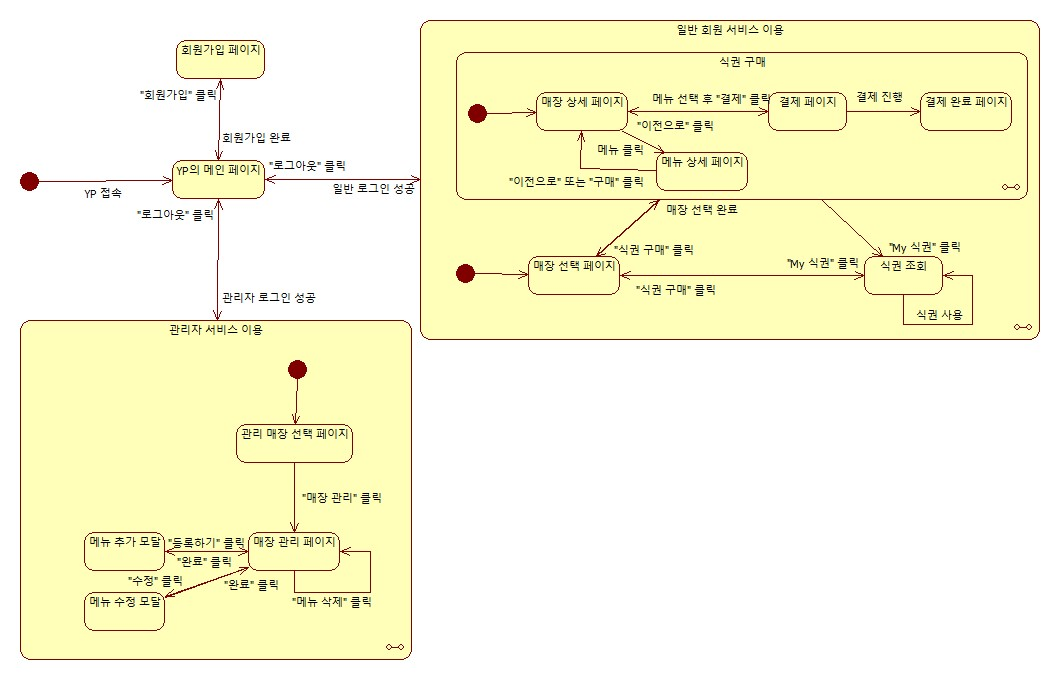
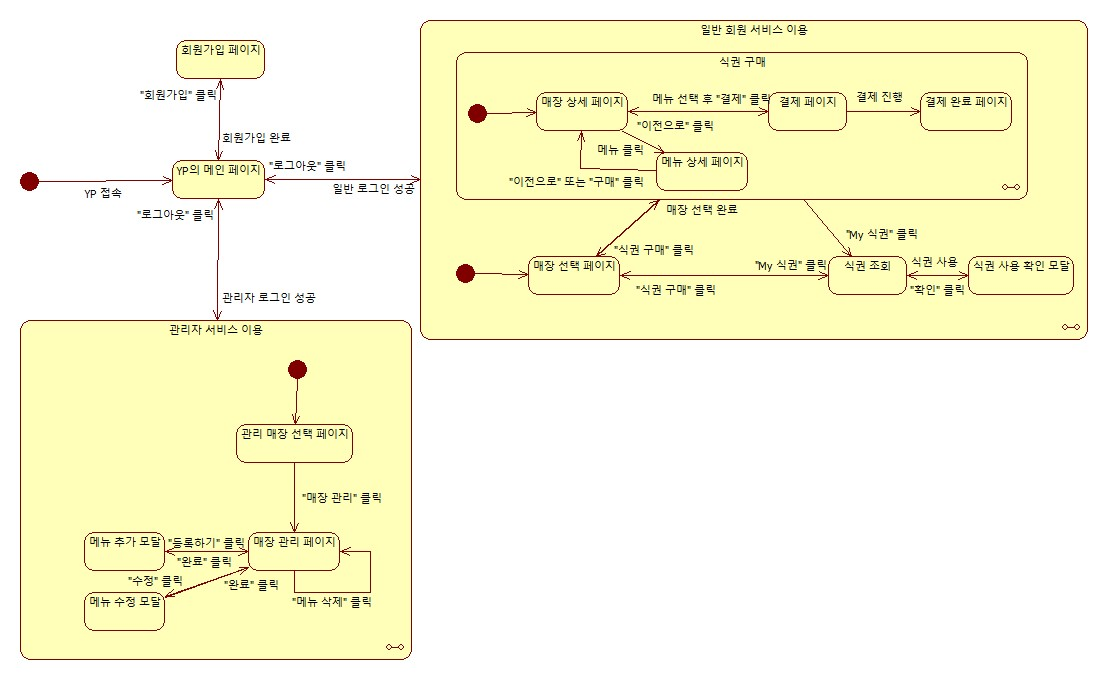
SDS 5번 업로드, 스테이트머신 다이어그램 수정

diff --git a/SDS/5_state_machine_diagram.md b/SDS/5_state_machine_diagram.md
@@ -1,0 +1,22 @@
+아래의 첨부된 이미지는 “Yummy Pass" 시스템의 State machine diagram을 그린 것이다. 웹사이트 특성을 고려하여, 사용자가 특정 페이지로 이동하거나 모달을 여는 것을 ”상태“라고 보고 diagram을 작성하였다. 
+
+<img src="img/YP_statemachine.jpg" alt="스테이트머신 다이어그램" width="800">
+
+| **State** | **설명** |
+| --- | --- |
+| **YP의 메인 페이지** | YP에 처음 접속했을 때 이용자가 볼 수 있는 페이지를 가리키는 상태다. 해당 페이지에서 회원가입 버튼을 클릭하면 “회원가입 페이지” 상태로 이동한다. 로그인을 성공했을 때 사용자가 관리자라면 “관리자 서비스 이용” 상태로, 아니라면 “일반 회원 서비스 이용” 상태로 이동한다.  |
+| **회원가입 페이지** | YP 서비스에 등록되지 않은 사용자가 회원가입을 할 수 있는 페이지로 이동한 상태다. 회원가입이 완료되면 “YP의 메인 페이지” 상태로 이동한다. |
+| **관리자 서비스 이용** | "관리 매장 선택 페이지“, ”매장 관리 페이지“, ”메뉴 추가 모달“, “메뉴 수정 모달”을 포함하는 복합 상태다. 이 복합 상태에서는 언제든지 “로그아웃”을 클릭해 “YP의 메인 페이지” 상태로 이동할 수 있다. |
+| **관리 매장 선택 페이지** | 관리자 계정으로 YP에 로그인했을 때 가장 먼저 확인할 수 있는 페이지를 가리키는 상태다. 관리하고자 하는 매장을 클릭하면 해당하는 매장의 “매장 관리 페이지” 상태로 이동할 수 있다. |
+| **매장 관리 페이지** | 매장의 메뉴를 나타내는 목록에서 어느 항목을 삭제하거나 수정, 추가할 수 있는 페이지로 이동한 상태다. 해당 페이지에서 “메뉴 삭제”를 클릭할 경우 다른 상태로 이동하지 않고 삭제만 수행한다. “등록하기” 버튼을 클릭할 경우 “메뉴 추가 모달” 상태로 이동하며, 목록에서 “수정”을 클릭할 경우 “메뉴 수정 모달” 상태로 이동한다.  |
+| **메뉴 추가 모달** | 원하는 메뉴를 추가할 수 있는 모달을 연 상태다. 메뉴를 추가한 후 “완료”를 클릭하면 “매장 관리 페이지” 상태로 이동한다. 이동한 상태에서 추가된 메뉴를 조회할 수 있다. |
+| **메뉴 수정 모달** | 원하는 메뉴를 수정할 수 있는 모달을 연 상태다. 메뉴를 수정한 뒤 “완료”를 클릭하면 “매장 관리 페이지” 상태로 이동한다. 이동한 상태에서 수정된 메뉴를 조회할 수 있다. |
+| **일반 회원 서비스 이용** | "식권 구매“라는 복합 상태와 “결제 완료 페이지”, “식권 조회”를 포함하는 복합 상태다. 이 복합 상태에서는 언제든지 “로그아웃”을 클릭해 “YP의 메인 페이지” 상태로 이동할 수 있다. |
+| **매장 선택 페이지** | YP에 로그인했을 때 가장 먼저 확인할 수 있는 페이지를 가리키는 상태다. 이 상태에서 일반 사용자는 식권을 구매하고자 하는 매장을 선택할 수 있다. 매장을 선택해 클릭하면 선택한 매장의 “매장 상세 페이지” 상태로 이동한다. |
+| **식권 구매** | "매장 상세 페이지“, “메뉴 상세 페이지”,  ”결제 페이지“, ”결제 완료 페이지“를 포함하는 복합 상태다. 이 복합 상태에서는 내비게이션바에 존재하는 “식권 구매” 또는 “My 식권”을 클릭하여 언제든지 “매장 선택 페이지” 상태와 “식권 조회” 상태로 이동할 수 있다.  |
+| **매장 상세 페이지** | 특정 매장에서 판매중인 메뉴를 조회할 수 있는 페이지로 이동한 상태다. 해당 페이지에서 원하는 메뉴를 클릭해 “메뉴 상세 페이지” 상태로 이동해 세부사항을 조회하고, 결제 항목에 추가할 수 있다. 선택한 메뉴 결제를 위하여 “결제”를 클릭하면 “결제 페이지” 상태로 이동한다.  |
+| **메뉴 상세 페이지** | 특정 매장에서 판매중인 메뉴의 세부사항을 조회 가능한 페이지로 이동한 상태다. 해당 페이지에서는 메뉴의 잔여 식권 수량, 메뉴 가격, 수령까지의 대기 시간을 확인할 수 있다. 이 상태에서 “이전으로”를 클릭하면 “매장 상세 페이지” 상태로 이동하고, “구매”를 클릭하면 “매장 상세 페이지” 상태로 이동한다. 후자의 경우, “매장 상세 페이지” 상태에 구매를 위해 선택한 메뉴가 표시된다. |
+| **결제 페이지** | 사용자가 원하는 메뉴의 식권을 구매하기 위하여 결제 페이지로 이동한 상태다. 이 페이지에서는 결제와 관련된 정보를 확인할 수 있다. “이전으로”를 클릭하면 “매장 상세 페이지” 상태로 돌아가 메뉴를 다시 선택할 수 있다. “결제”를 클릭하면 결제가 진행되며 “결제 완료 페이지” 상태로 이동한다. |
+| **결제 완료 페이지** | 사용자가 “결제”를 클릭해 실제 결제를 완료하고 식권의 QR코드가 생성된 상태다. 이 페이지의 본문에서 “메인으로”를 클릭하면 “매장 선택 페이지” 상태로 이동하며, “My 식권”을 클릭하면 “식권 조회 페이지” 상태로 이동한다. |
+| **식권 조회 페이지** | 사용자가 현재까지 구매한 식권의 목록을 확인할 수 있는 상태다. 이 페이지에서는 만료된 식권과 사용가능한 식권 두 가지 상태의 식권을 조회할 수 있다. 사용자는 매장의 QR 스캐너에 사용 가능한 식권의 QR코드를 인식시키는 것으로 식권을 사용하여 “식권 사용 확인 모달” 상태로 이동한다. 내비게이션바의 “식권 구매”를 클릭하면 “매장 선택 페이지” 상태로 이동한다. |
+| **식권 사용 확인 모달** | 사용자가 식권을 사용했을 때 모달이 열리는 상태다. 사용자는 이 상태에서 본인이 식권을 사용하고 학식을 수령했음을 인증하기 위해 “확인”을 클릭할 수 있다. “확인”을 클릭하면 “식권 조회 페이지” 상태로 이동한다. |
